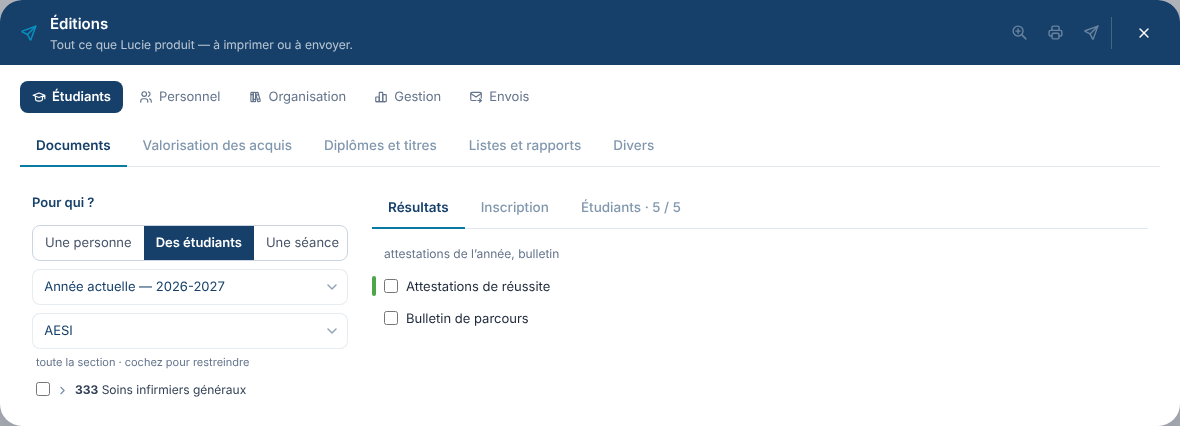
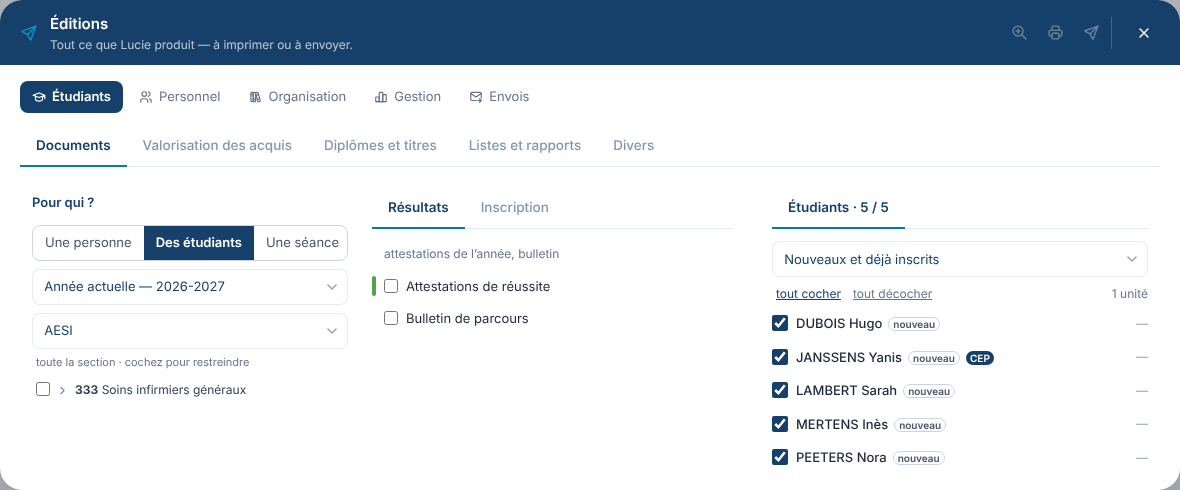
3.1.500 — Éditions en trois colonnes, du large au précis : pour qui · quoi (Résultats | Inscription, ou Pour le Conseil | Pour ses étudiants) · les étudiants, toujours visibles
Claude-Session: https://claude.ai/code/session_012qruWSafZoY4zbyAWnavcA

diff --git a/frontend/src/components/CentreImpressionCentral.jsx b/frontend/src/components/CentreImpressionCentral.jsx
@@ -1695,7 +1695,7 @@ function OngletEtudiants({ perimetre = null, seul = null, onRevenir = null }) {
     const garde = new Set(famillePieces.map(p => p.cle));
     setChoix(c => Object.fromEntries(Object.entries(c).filter(([k]) => garde.has(k))));
     if (seance) setParcours(false);
-    setVueDroite(v => v === 'etudiants' ? v : 'a');
+    setVueDroite('a');
     // eslint-disable-next-line
   }, [pourQui]);
   // Tout le parcours n'a pas de face « Inscription ».
@@ -1791,8 +1791,6 @@ function OngletEtudiants({ perimetre = null, seul = null, onRevenir = null }) {
      du périmètre ; quand elle n'y trouve personne, elle cherche dans toute l'école et ouvre les pièces de celui
      qu'on choisit — ce que faisait le champ « Un étudiant — toutes ses pièces », retiré. */
   const [ailleurs, setAilleurs] = useState([]);
-  // Chercher un étudiant, c'est regarder les étudiants : la face s'ouvre d'elle-même.
-  useEffect(() => { if (recherche.trim()) setVueDroite('etudiants'); }, [recherche]);
   useEffect(() => {
     const q = recherche.trim();
     if (seul || !choisirEtudiant || q.length < 2 || (etudiants.length && pourQui !== 'personne')) { setAilleurs([]); return; }
@@ -2316,7 +2314,10 @@ function OngletEtudiants({ perimetre = null, seul = null, onRevenir = null }) {
               <span className="ml-auto text-second text-iip-blue underline">ouvrir ses pièces</span>
             </button>))}
         </div>)}
-      <div className={`flex-1 flex flex-col min-h-0 ${etudiantVu || (pourQui === 'personne' && !seul) ? 'hidden' : ''}`}>
+      {/* TROIS COLONNES, DU LARGE AU PRÉCIS (Charles, 30 octobre 2026 : « au plus on va à droite, au plus on précise ») :
+          pour qui · quoi (résultats ou inscription — pour une séance, le Conseil ou ses étudiants) · les étudiants. */}
+      <div className={`flex-1 flex min-h-0 gap-4 ${etudiantVu || (pourQui === 'personne' && !seul) ? 'hidden' : ''}`}>
+      <div className="flex-1 min-w-0 flex flex-col min-h-0">
 
         {/* LES BOUTONS EN TÊTE, et ce qu'ils vont faire (maquette validée). */}
         <div className="px-3 pt-2 space-y-2.5">
@@ -2333,8 +2334,6 @@ function OngletEtudiants({ perimetre = null, seul = null, onRevenir = null }) {
                     <button key={v} type="button" onClick={() => setVueDroite(v)}
                       className={`onglet-page ${vueDroite === v ? 'onglet-page-actif' : ''}`}>{lib}{n ? ` · ${n}` : ''}</button>);
                 })}
-              <button type="button" onClick={() => setVueDroite('etudiants')}
-                className={`onglet-page ${vueDroite === 'etudiants' ? 'onglet-page-actif' : ''}`}>Étudiants · {coches.size} / {visibles.length}</button>
             </span>
             <span className="flex-1" />
             {enCours && <span className="text-second text-slate-500 pb-2">Production…</span>}
@@ -2354,7 +2353,7 @@ function OngletEtudiants({ perimetre = null, seul = null, onRevenir = null }) {
             </div>
           )}
         </div>
-        {vueDroite !== 'etudiants' ? (
+        {(
         <div className="flex-1 overflow-auto min-h-0 p-3 space-y-4">
           <div className="pt-1 max-w-xl">
             {seance ? <>
@@ -2388,25 +2387,35 @@ function OngletEtudiants({ perimetre = null, seul = null, onRevenir = null }) {
           </div>
           {/* Hors séance, une pièce par document et par étudiant, toujours : la phrase qui le disait sous les listes est retirée. */}
         </div>
-        ) : <>
-        <div className="px-3 pt-3 pb-2 border-b border-slate-200">
-          <div className="flex flex-wrap items-center gap-2 text-second">
-            {!seul && <select value={fNouveau} onChange={e => setFNouveau(e.target.value)}
-              className="controle" aria-label="Nouveaux ou déjà inscrits">
+        )}
+      </div>
+      <div className="w-[400px] flex-none flex flex-col min-h-0">
+        <div className="px-3 pt-2">
+          <div className="flex items-end border-b border-slate-200">
+            <span className="onglet-page onglet-page-actif cursor-default">Étudiants · {coches.size} / {visibles.length}</span>
+          </div>
+        </div>
+        {/* La colonne des étudiants : ses filtres sur une ligne, puis cocher, sans second filet. */}
+        <div className="px-3 pt-3 pb-1 space-y-2 text-second">
+          {!seul && <div className="flex gap-2">
+            <select value={fNouveau} onChange={e => setFNouveau(e.target.value)}
+              className="controle flex-1 min-w-0" aria-label="Nouveaux ou déjà inscrits">
               <option value="">Nouveaux et déjà inscrits</option>
               <option value="nouveaux">Nouveaux (première année chez nous)</option>
               <option value="anciens">Déjà inscrits avant</option>
-            </select>}
-            {!seul && !!blocsDispo.length && <select value={fBloc} onChange={e => setFBloc(e.target.value)}
-              className="controle" aria-label="Bloc">
+            </select>
+            {!!blocsDispo.length && <select value={fBloc} onChange={e => setFBloc(e.target.value)}
+              className="controle flex-1 min-w-0" aria-label="Bloc">
               <option value="">Tous les blocs</option>
               {blocsDispo.map(b => <option key={b} value={b}>{b === 'MIXTE' ? 'Parcours mixte' : b}</option>)}
             </select>}
-            {modePublic && <span className="font-semibold text-iip-blue">Pièces {NOM_PUBLIC[modePublic]}</span>}
+          </div>}
+          <div className="flex items-center gap-3 pl-1">
             <button onClick={() => setCoches(new Set(visibles.map(e => e.id)))} className="text-iip-blue underline">tout cocher</button>
             <button onClick={() => setCoches(new Set())} className="text-slate-500 underline">tout décocher</button>
+            {modePublic && <span className="font-semibold text-iip-blue">Pièces {NOM_PUBLIC[modePublic]}</span>}
             <span className="flex-1" />
-            <span className="text-slate-500">{liste?.unites?.length ? `${liste.unites.length} unité(s)` : ''}</span>
+            <span className="text-slate-500">{liste?.unites?.length ? `${liste.unites.length} unité${liste.unites.length > 1 ? 's' : ''}` : ''}</span>
           </div>
         </div>
         <div className="flex-1 overflow-auto min-h-0">
@@ -2456,7 +2465,7 @@ function OngletEtudiants({ perimetre = null, seul = null, onRevenir = null }) {
             </label>
           ))}
         </div>
-        </>}
+      </div>
       </div>
 
       {envoi && (

diff --git a/backend/src/lib/modeEmploi.js b/backend/src/lib/modeEmploi.js
@@ -10,7 +10,7 @@
  *   savoir — ce qu'il faut savoir : les règles qui bloquent ou qui surprennent.
  * Il explique le travail, pas l'informatique (CLAUDE.md, § 7). La version décrite se dit en tête.
  */
-export const VERSION_DECRITE = '3.1.499';
+export const VERSION_DECRITE = '3.1.500';
 
 export const RUBRIQUES = [
   {
@@ -900,16 +900,16 @@ export const RUBRIQUES = [
         texte: "La première question est « Pour qui ? ». « Une personne » : cherchez-la par son nom ou son matricule dans toute l'école, puis « ouvrir ses pièces » — de l'année, ou de tout son parcours. « Des étudiants » : une section, ses unités, des cases à cocher — leurs attestations de réussite, bulletin, PAE, fiche, frais, annexes, pièces CEP, de l'année ou de tout le parcours (une inspection : tout sortir vite). « Une séance » : l'année, la session, l'unité — « Pour le Conseil » (PV, composition, grille, ajournés par cours) et « Pour ses étudiants » (attestations, motivations d'ajournement et de refus). Les autres onglets : « Valorisation des acquis » (par unité), « Diplômes et titres », « Listes et rapports », « Divers » (les lettres composées dans l'atelier).",
         savoir: [
           "La session n'appartient qu'à la séance : une attestation de réussite n'en a pas besoin.",
-          "À droite, des sous-onglets : « Résultats », « Inscription » et « Étudiants » (qui reçoit) — pour une séance, « Pour le Conseil », « Pour ses étudiants » et « Étudiants ». Le nombre de pièces cochées s'y lit.",
+          "Trois colonnes, du plus large au plus précis : pour qui · quoi (« Résultats » ou « Inscription » ; pour une séance, « Pour le Conseil » ou « Pour ses étudiants ») · les étudiants, à cocher. Le nombre de pièces cochées se lit dans l'onglet.",
           "Une pièce sans rien à produire est grisée (attestation sans réussite, motivation de refus sans refus…).",
           "Mode SLE : cocher une annexe 1 ou 2 ne montre que les étudiants en séjour limité aux études. Mode CEP : cocher une pièce CEP ne montre que les étudiants au congé-éducation payé de l'année (hors Flandre).",
           "Dans la barre bleue : [[Aperçu|IconZoomIn]], [[Produire|IconPrinter]] et [[Envoyer|IconSend]] — par courriel, un document par personne, jamais de copie collective, à l'adresse d'école.",
         ],
         images: [
           { src: "/guide/editions-personne.png", legende: "« Une personne » (données d'essai) : le nom cherché à gauche, « ouvrir ses pièces » à droite." },
-          { src: "/guide/editions-groupe.png", legende: "« Des étudiants » : l'année ou tout le parcours, la section et ses unités ; à droite, les sous-onglets Résultats, Inscription, Étudiants." },
+          { src: "/guide/editions-groupe.png", legende: "« Des étudiants » : l'année ou tout le parcours, la section et ses unités ; au milieu, Résultats ou Inscription ; à droite, les étudiants." },
           { src: "/guide/editions-inscription.png", legende: "Le sous-onglet « Inscription » : PAE, fiche, frais, annexes des SLE, pièces CEP." },
-          { src: "/guide/editions-seance.png", legende: "« Une séance » : l'année, la session, l'unité ; sous-onglets « Pour le Conseil », « Pour ses étudiants », « Étudiants »." },
+          { src: "/guide/editions-seance.png", legende: "« Une séance » : l'année, la session, l'unité ; « Pour le Conseil » ou « Pour ses étudiants » ; à droite, les étudiants et ce qu'ils ont obtenu." },
         ],
       },
       {

diff --git a/backend/assets/nouveautes/2026-11.html b/backend/assets/nouveautes/2026-11.html
@@ -110,7 +110,7 @@
 <article class="nouveau" data-pour="sec coo dir">
   <h3>Éditions : « Pour qui ? »</h3>
   <span class="ou">Où : <b>l'avion → Étudiants → Documents</b>.</span>
-  <p>Une seule question d'abord : <b>une personne</b> (on la cherche dans toute l'école, puis ses pièces de l'année ou de tout son parcours), <b>des étudiants</b> (une section, des unités ; l'année ou tout le parcours — pour une inspection, tout sort en une fois), ou <b>une séance</b> (l'année, la session, l'unité : les pièces pour le Conseil et pour ses étudiants). La session ne se demande plus que pour une séance. À droite, les sous-onglets « Résultats », « Inscription » et « Étudiants » (pour une séance : « Pour le Conseil », « Pour ses étudiants », « Étudiants »). « Délibération » et « Dossiers étudiants » laissent la place à « Documents » ; les lettres de l'atelier passent dans « Divers ». Aperçu, Produire et Envoyer sont dans la barre bleue.</p>
+  <p>Une seule question d'abord : <b>une personne</b> (on la cherche dans toute l'école, puis ses pièces de l'année ou de tout son parcours), <b>des étudiants</b> (une section, des unités ; l'année ou tout le parcours — pour une inspection, tout sort en une fois), ou <b>une séance</b> (l'année, la session, l'unité : les pièces pour le Conseil et pour ses étudiants). La session ne se demande plus que pour une séance. Trois colonnes, du plus large au plus précis : pour qui, puis quoi (« Résultats » ou « Inscription » ; pour une séance, « Pour le Conseil » ou « Pour ses étudiants »), puis les étudiants à cocher. « Délibération » et « Dossiers étudiants » laissent la place à « Documents » ; les lettres de l'atelier passent dans « Divers ». Aperçu, Produire et Envoyer sont dans la barre bleue.</p>
   <div class="etiquettes"><span class="etiquette dev">À l'essai</span></div>
 </article>
 

diff --git a/CLAUDE.md b/CLAUDE.md
@@ -2802,7 +2802,10 @@ circulé sans qu'on puisse dire qui l'avait sortie. « Je veux des traces. »
   Inscription » ; choisi : un 3e onglet Étudiants) : **Résultats · Inscription · Étudiants** (tout le parcours :
   Résultats · Étudiants) ; pour une séance **Pour le Conseil · Pour ses étudiants · Étudiants**. Une face à la fois
   (`vueDroite` 'a' | 'b' | 'etudiants'), le nombre de pièces cochées dans l'onglet ; on entre sur « Inscription »
-  quand l'appel n'apporte que des pièces d'inscription (le PAE de la revue).
+  quand l'appel n'apporte que des pièces d'inscription (le PAE de la revue). **Trois colonnes** (3.1.500, Charles :
+  « au plus on va à droite, au plus on précise ») : pour qui · quoi (Résultats | Inscription, ou Pour le Conseil |
+  Pour ses étudiants) · les étudiants (`w-[400px]`, toujours visibles, filtres sur une ligne) — l'onglet
+  « Étudiants » a disparu.
 
 **L'ANNULER NE COMPARE QUE CE QUE LE GESTE A CHANGÉ** (3.1.482, Charles, 30 octobre 2026, en production :
   « Impossible d'annuler : utilisateur — la ligne a été modifiée depuis, par quelqu'un »). Se reconnecter écrit
